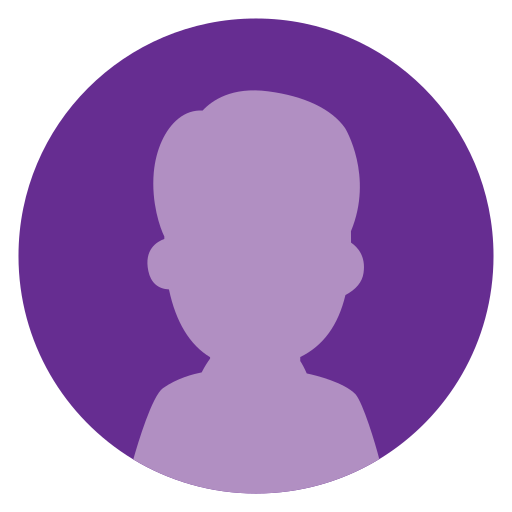
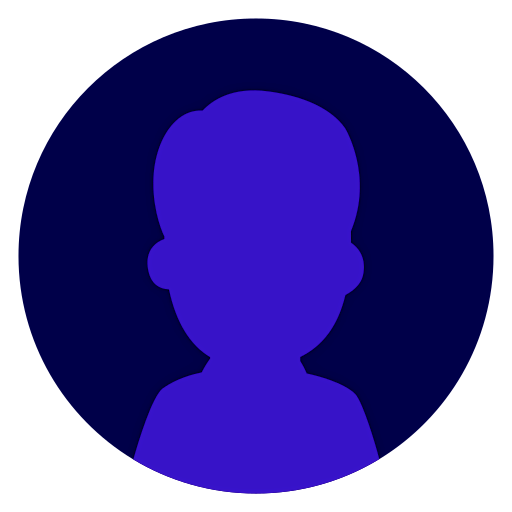
added projects content page

diff --git a/src/pages/ProjectsPage.tsx b/src/pages/ProjectsPage.tsx
@@ -1,5 +1,58 @@
+import React from "react";
+
 function ProjectsPage() {
-  return <div>ProjectsPage</div>;
+  return (
+    <div className="page projects-page">
+      <div className="page__content">
+        <div className="projects">
+          <div
+            className="card"
+            style={{
+              backgroundImage: "url('/landing_1.png')",
+              backgroundColor: "rgba(0,0,0,0.5)",
+            }}>
+            <p className="card__text">Project 1</p>
+            <div className="card__overlay">
+              <span className="card__plus">+</span>
+            </div>
+          </div>
+          <div
+            className="card"
+            style={{
+              backgroundImage: "url('/landing_2.png')",
+              backgroundColor: "rgba(0,0,0,0.5)",
+            }}>
+            <p className="card__text">Project 2</p>
+            <div className="card__overlay">
+              <span className="card__plus">+</span>
+            </div>
+          </div>
+          <div
+            className="card"
+            style={{
+              backgroundImage: "url('/landing_3.png')",
+              backgroundColor: "rgba(0,0,0,0.5)",
+            }}>
+            <p className="card__text">Project 3</p>
+            <div className="card__overlay">
+              <span className="card__plus">+</span>
+            </div>
+          </div>
+          <div
+            className="card"
+            style={{
+              backgroundImage: "url('/landing_4.png')",
+              backgroundColor: "rgba(0,0,0,0.5)",
+            }}>
+            <p className="card__text">Project 4</p>
+            <div className="card__overlay">
+              <span className="card__plus">+</span>
+            </div>
+          </div>
+        </div>
+      </div>
+    </div>
+  );
 }
 
 export default ProjectsPage;

diff --git a/src/assets/styles/pages/projects.scss b/src/assets/styles/pages/projects.scss
@@ -1,0 +1,61 @@
+.projects-page .page__content {
+    display: flex;
+    flex-wrap: wrap;
+    gap: 20px;
+}
+
+.projects {
+    display: flex;
+    flex-wrap: wrap;
+    gap: 20px;
+}
+
+.card {
+    position: relative;
+    width: 200px;
+    height: 200px;
+    background-size: cover;
+    background-blend-mode: overlay;
+    border-radius: 10px;
+    overflow: hidden;
+    transition: transform 0.3s;
+    display: flex;
+    justify-content: center;
+    align-items: center;
+    color: white;
+    font-size: 1.5em;
+    text-align: center;
+}
+
+.card:hover {
+    transform: scale(1.05);
+}
+
+.card__overlay {
+    position: absolute;
+    top: 0;
+    left: 0;
+    right: 0;
+    bottom: 0;
+    background-color: rgba(0, 0, 0, 0.6);
+    display: flex;
+    justify-content: center;
+    align-items: center;
+    opacity: 0;
+    transition: opacity 0.3s;
+}
+
+.card:hover .card__overlay {
+    opacity: 1;
+}
+
+.card__plus {
+    width: 1em; 
+    height: 1em; 
+    line-height: 1em; 
+    text-align: center; 
+    border-radius: 50%; 
+    font-size: 2em; 
+    background: rgba($color: #ffffff, $alpha: .8);
+    color: #5900ff; 
+}

diff --git a/src/assets/styles/profile.scss b/src/assets/styles/profile.scss
@@ -1,14 +1,11 @@
 .profile {
     width: 320px;
     margin-right: 10px;
-    background: #151515;
     border-radius: 10px;
-    box-shadow: 0 4px 8px rgba(0, 0, 0, 0.2);
     overflow: hidden;
     transition: transform 0.3s;
 
     &__header {
-        background-color: #101010;
         padding: 10px;
         height: 60px;
         display: flex;
@@ -41,19 +38,7 @@
             width: 128px;
             height: 128px;
             border-radius: 50%;
-            border: 4px solid #1c1c1c;
-            box-shadow: 0 4px 8px rgba(0, 0, 0, 0.2);
-        }
-
-        &::before {
-            border-radius: 50%;
-            content: "";
-            position: absolute;
-            top: 0;
-            left: 0;
-            width: 100%;
-            height: 100%;
-            background: rgba($color: #5900ff, $alpha: 0.2);
+            box-shadow: 0 4px 8px rgba(179, 179, 179, 0.2);
         }
 
         &:hover {

diff --git a/src/assets/styles/base.scss b/src/assets/styles/base.scss
@@ -122,7 +122,7 @@ body {
         overflow-y: auto;
         border-bottom-left-radius: 10px;
         border-bottom-right-radius: 10px;
-        box-shadow: inset -20px -20px #e4f5ff;
+        box-shadow: inset -5px -5px #5601ff;
         display: flex;
         flex-direction: column;
 

diff --git a/src/assets/styles/sidebar.scss b/src/assets/styles/sidebar.scss
@@ -7,7 +7,7 @@
     margin-right: 10px;
     padding-left: 10px;
     padding-top: 10px;
-    box-shadow: inset 20px 20px #e4f5ff;
+    box-shadow: inset 5px 5px #5601ff;
     border-radius: 10px;
     background: #101010;
     backdrop-filter: blur(5px);

diff --git a/src/assets/styles/typewriter.scss b/src/assets/styles/typewriter.scss
@@ -1,5 +1,6 @@
 .typewriter{
     min-height: 32px;
-    color: aqua;
+    color: rgb(98, 0, 255);
     font-size: 18px;
+    font-weight: 700;
 }

diff --git a/src/assets/styles/main.scss b/src/assets/styles/main.scss
@@ -6,3 +6,7 @@
 @import './profile.scss';
 @import './typewriter.scss';
 
+@import './pages/home.scss';
+@import './pages/projects.scss';
+
+
